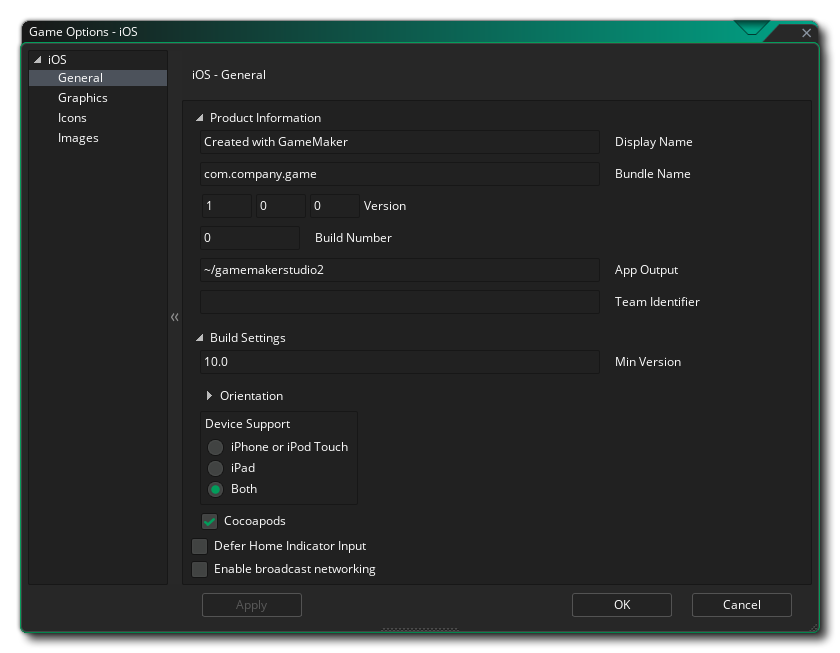
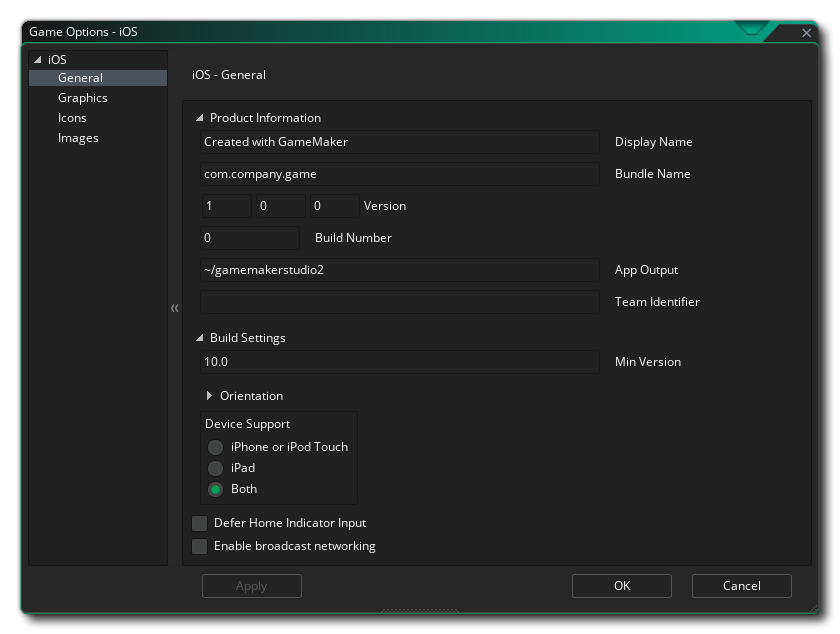
[Feature] Removed Cocoapods option from iOS and tvOS settings; documented "Min Version" https://github.com/YoYoGames/YoYoStudio/issues/9614

diff --git a/Manual/contents/Settings/Game_Options/iOS.htm b/Manual/contents/Settings/Game_Options/iOS.htm
@@ -18,7 +18,8 @@
   <p>This section outlines the different options available to you that control how your iOS game projects will be compiled. The different sections are:</p>
   <h2>General</h2>
   <p><img alt="iOS General Options" class="center" src="../../assets/Images/Settings/iOS_General_Options.png" />The first part of the General section covers the <strong>Product Information</strong> about your game, including its <strong>Display Name</strong>, its <strong>Bundle Name</strong>, <strong>Version</strong> info and <strong>Build Number</strong>. Note that the Bundle Name must be in the correct reverse URL format for the final build of the game to work correctly, e.g. <span class="inline">com.[Company].[GameName]</span>. Here you can also give the <strong>Team Identifier</strong> that you wish to use for signing the final application that <span data-keyref="GameMaker Name">GameMaker</span> creates for you. Setting it here will override the Team ID that you have supplied in the <a href="../../Setting_Up_And_Version_Information/Platform_Preferences/iOS.htm">iOS Preferences</a>.</p>
-  <p>The second thing to do is fill in the <strong>Build Settings</strong> for your game. To start with you set the allowed <strong>Orientation</strong>s that your game can be run on for the best user experience. The available options are:</p>
+  <p>&quot;<strong>Min Version</strong>&quot; is the minimum version of iOS that the game can be played on.</p>
+  <p>The next thing to do is fill in the <strong>Build Settings</strong> for your game. To start with you set the allowed <strong>Orientation</strong>s that your game can be run on for the best user experience. The available options are:</p>
   <ul class="colour">
     <li>Allow portrait orientation</li>
     <li>Allow flipped portrait orientation</li>
@@ -31,17 +32,6 @@
     <li><strong>iPad</strong>: iPad devices</li>
     <li><strong>Both</strong>: Both iPhone/iPod and iPad</li>
   </ul>
-  <p>Next, there is the <strong><a id="CocoaPods"></a>CocoaPods</strong> checkbox. Check it to automatically let <span data-keyref="GameMaker Name">GameMaker</span> use the <a href="https://cocoapods.org/">CocoaPods</a> dependency manager. When enabled, <span data-keyref="GameMaker Name">GameMaker</span> will perform the following steps on building your project:</p>
-  <ul class="colour">
-    <li>Check if CocoaPods is installed, if it isn&#39;t, <span data-keyref="GameMaker Name">GameMaker</span> will install it.</li>
-    <li>Check if the Podfile and Podfile.lock files exist and create them if not. These files are required if you are adding CocoaPods to an <a href="../../The_Asset_Editors/Extension_Creation/iOS_Extensions.htm">iOS extension</a> using the <a href="../../The_Asset_Editors/Extensions.htm">Extension Editor</a>. The files contain specific, pre-generated macros required by <span data-keyref="GameMaker Name">GameMaker</span> to setup any listed CocoaPods when building your game.</li>
-    <li>Execute the <span class="inline2">pod install</span> command.</li>
-  </ul>
-  <p>The following guide contains more information on using CocoaPods, including manual installation and creation of the Podfile and Podfile.lock files: </p>
-  <ul class="colour">
-    <li><a href="https://help.yoyogames.com/hc/en-us/articles/360008958858">iOS and tvOS: Using Cocoa Pods</a></li>
-  </ul>
-  <div data-conref="../../assets/snippets/Note_important_CocoaPods.hts"> </div>
   <p>You can check or uncheck the option to <strong>Defer Home Indicator Output</strong>. When this is checked, the home bar will always be shown at a low alpha, and the first swipe wakes the bar and the second swipe takes you home. If the option is unchecked, then the bar is not shown in-game, but the first edge swipe will take you home. Default is unchecked.</p>
   <p>Lastly, you can <strong id="enable_broadcast_networking">Enable broadcast networking</strong>. When enabled, <span data-keyref="GameMaker Name">GameMaker</span> will add the multicast entitlement (<a href="https://developer.apple.com/documentation/bundleresources/entitlements/com_apple_developer_networking_multicast">com.apple.developer.networking.multicast</a>) to broadcast or multicast messages that you send in your game.</p>
   <h2>Graphics</h2>
@@ -76,7 +66,7 @@
         <div style="float:right">Next: <a href="tvOS.htm">tvOS</a></div>
       </div>
     </div>
-    <h5><span data-keyref="Copyright Notice">© Copyright YoYo Games Ltd. 2023 All Rights Reserved</span></h5>
+    <h5><span data-keyref="Copyright Notice">© Copyright YoYo Games Ltd. 2024 All Rights Reserved</span></h5>
   </div>
   <!-- KEYWORDS
 iOS Game Options

diff --git a/Manual/contents/Settings/Game_Options/tvOS.htm b/Manual/contents/Settings/Game_Options/tvOS.htm
@@ -18,11 +18,7 @@
   <p>This section outlines the different options available to you that control how your tvOS game projects will be compiled. The different sections are:</p>
   <h2>General</h2>
   <p><img alt="iOS General Options" class="center" src="../../assets/Images/Settings/tvOS_General_Options.png" />Here you can fill in the <strong>Product Information</strong> about your game, including its <strong>Display Name</strong>, its <strong>Bundle ID,</strong> <strong>Version </strong>info and <strong>Build Number</strong>. Note that the Bundle ID must be in the correct reverse URL format for the final build of the game to work correctly, e.g. <span class="inline">com.[Company].[GameName]</span>. You can also set the <strong>App Output</strong> location on the build Mac, and you can give the <strong>Team Identifier</strong> that you wish to use for signing the final application that <span data-keyref="GameMaker Name">GameMaker</span> creates for you. Setting it here will override the Team ID that you have supplied in the <a href="../../Setting_Up_And_Version_Information/Platform_Preferences/tvOS.htm">tvOS Preferences</a>.</p>
-  <p>Below that is the <strong>CocoaPods</strong> option. Check it to automate building using the <a href="https://cocoapods.org/">CocoaPods</a> dependency manager. For detailed information, see the following guide:</p>
-  <ul class="colour">
-    <li><a href="https://help.yoyogames.com/hc/en-us/articles/360008958858">iOS and tvOS: Using Cocoa Pods</a></li>
-  </ul>
-  <div data-conref="../../assets/snippets/Note_important_CocoaPods.hts"> </div>
+  <p>&quot;<strong>Min Version</strong>&quot; is the minimum version of tvOS that the game can be played on.</p>
   <p>Lastly, you can <strong id="enable_broadcast_networking">Enable broadcast networking</strong>. When enabled, <span data-keyref="GameMaker Name">GameMaker</span> will add the multicast entitlement (<a href="https://developer.apple.com/documentation/bundleresources/entitlements/com_apple_developer_networking_multicast">com.apple.developer.networking.multicast</a>) to broadcast or multicast messages that you send in your game.</p>
   <h2>Graphics</h2>
   <p><img alt="tvOS Graphics Options" class="center" src="../../assets/Images/Settings/tvOS_Graphics_Options.png" />Here you can change the following details related to how your game will be displayed, with the following options available:</p>
@@ -50,7 +46,7 @@
         <div style="float:right">Next: <a data-xref="{title}" href="Template_Info.htm">Template Info</a></div>
       </div>
     </div>
-    <h5><span data-keyref="Copyright Notice">© Copyright YoYo Games Ltd. 2023 All Rights Reserved</span></h5>
+    <h5><span data-keyref="Copyright Notice">© Copyright YoYo Games Ltd. 2024 All Rights Reserved</span></h5>
   </div>
   <!-- KEYWORDS
 tvOS Game Options
